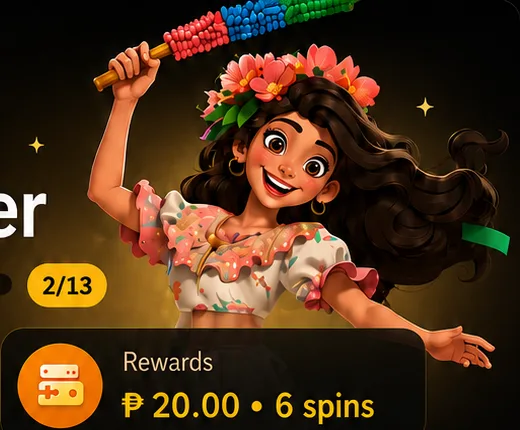
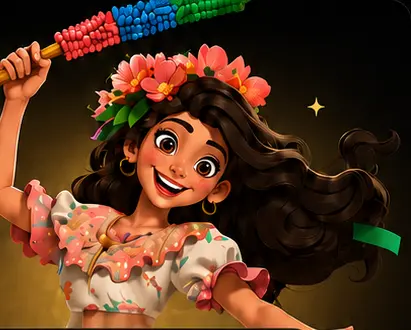
调整任务中心视觉比例

diff --git a/apps/web-tma/src/views/TasksPage.tsx b/apps/web-tma/src/views/TasksPage.tsx
@@ -1,9 +1,7 @@
 import { useState, useEffect, useCallback, useMemo } from 'react'
 import { useTranslation } from 'react-i18next'
 import {
-  Cake, CalendarDays, Check, Download, Gamepad2, Gift, Lock,
-  MailCheck, Server, Smartphone, Sparkles, Star, Trophy, UserPlus, Users,
-  Wallet, type LucideIcon,
+  CalendarDays, Check, Lock, Sparkles, Star, Users, type LucideIcon,
 } from 'lucide-react'
 import {
   fetchTaskCenter, claimTask, claimSocialTask,
@@ -14,6 +12,15 @@ import { useWalletStore, formatCurrencyAmount } from '@/stores/wallet'
 import { ApiError } from '@/api/client'
 import BindModal from '@/components/auth/BindModal'
 import taskHero from '@/assets/tasks/task-hero.webp'
+import iconBirthday from '@/assets/tasks/icon-birthday.webp'
+import iconClaimable from '@/assets/tasks/icon-claimable.webp'
+import iconDownload from '@/assets/tasks/icon-download.webp'
+import iconGame from '@/assets/tasks/icon-game.webp'
+import iconInvite from '@/assets/tasks/icon-invite.webp'
+import iconPhone from '@/assets/tasks/icon-phone.webp'
+import iconProfile from '@/assets/tasks/icon-profile.webp'
+import iconRewards from '@/assets/tasks/icon-rewards.webp'
+import iconWallet from '@/assets/tasks/icon-wallet.webp'
 
 export type TaskPath = 'newbie' | 'daily' | 'social'
 
@@ -165,19 +172,17 @@ export default function TasksPage({ initialPath = 'newbie', onNavigate }: { init
     return t('tasks.claim')
   }
 
-  function taskVisual(card: TaskCard): { Icon: LucideIcon; className: string } {
-    if (card.id === 'profile_complete') return { Icon: MailCheck, className: 'from-[#4aa8ff] to-[#1261d6]' }
-    if (card.id === 'first_game') return { Icon: Gamepad2, className: 'from-[#36d45d] to-[#0b8d33]' }
-    if (card.id === 'invite_milestone') return { Icon: UserPlus, className: 'from-[#ffd528] to-[#e88d00]' }
-    if (card.id === 'agg_trial') return { Icon: Smartphone, className: 'from-[#15d2bd] to-[#058d7f]' }
-    if (card.id === 'agg_appdl') return { Icon: Download, className: 'from-[#ab50ea] to-[#6826a7]' }
-    if (card.id === 'agg_firstdep') return { Icon: Wallet, className: 'from-[#ff602f] to-[#e62b0b]' }
-    if (card.id === 'agg_birthday') return { Icon: Cake, className: 'from-[#2088ff] to-[#064aa3]' }
-    if (card.id === 'daily_login' || card.id === 'agg_checkin') return { Icon: CalendarDays, className: 'from-[#ffb334] to-[#f06a00]' }
-    if (card.id === 'daily_deposit') return { Icon: Wallet, className: 'from-[#ff7d1a] to-[#df3e00]' }
-    if (card.id.startsWith('agg_checkin_ms')) return { Icon: Trophy, className: 'from-[#ffd43b] to-[#d99000]' }
-    if (card.group === 'social') return { Icon: Users, className: 'from-[#5bb6ff] to-[#1855d6]' }
-    return { Icon: Gift, className: 'from-[#ffbe20] to-[#f06a00]' }
+  function taskIcon(card: TaskCard): string {
+    if (card.id === 'profile_complete') return iconProfile
+    if (card.id === 'first_game') return iconGame
+    if (card.id === 'invite_milestone') return iconInvite
+    if (card.id === 'agg_trial') return iconPhone
+    if (card.id === 'agg_appdl') return iconDownload
+    if (card.id === 'agg_firstdep' || card.id === 'daily_deposit') return iconWallet
+    if (card.id === 'agg_birthday') return iconBirthday
+    if (card.id === 'daily_login' || card.id === 'agg_checkin' || card.id.startsWith('agg_checkin_ms')) return iconRewards
+    if (card.group === 'social') return iconInvite
+    return iconClaimable
   }
 
   function renderSummary() {
@@ -189,35 +194,35 @@ export default function TasksPage({ initialPath = 'newbie', onNavigate }: { init
     const progressPct = summary.total > 0 ? Math.min(100, Math.round(summary.done / summary.total * 100)) : 0
 
     return (
-      <section className="relative overflow-hidden px-4 pb-4 pt-9">
+      <section className="relative overflow-hidden px-3 pb-3 pt-7">
         <div className="absolute inset-0 bg-[radial-gradient(circle_at_72%_18%,rgba(255,185,28,0.34),transparent_31%),radial-gradient(circle_at_40%_38%,rgba(255,190,34,0.12),transparent_30%)]" />
         <img
           src={taskHero}
           alt=""
-          className="pointer-events-none absolute right-[-38px] top-0 h-[220px] w-[270px] object-cover object-left-top opacity-95"
+          className="pointer-events-none absolute right-[-18px] top-0 h-[172px] w-[214px] object-cover object-left-top opacity-95"
         />
-        <div className="pointer-events-none absolute right-0 top-0 h-[230px] w-[52%] bg-gradient-to-l from-transparent via-transparent to-[#050403]" />
+        <div className="pointer-events-none absolute right-0 top-0 h-[180px] w-[56%] bg-gradient-to-l from-transparent via-transparent to-[#050403]" />
         <div className="relative">
-          <p className="flex items-center gap-2 text-[13px] font-black uppercase tracking-[0.22em] text-[#ffd21c]">
-            <Sparkles size={15} fill="currentColor" strokeWidth={2.8} />
+          <p className="flex items-center gap-1.5 text-[11px] font-black uppercase tracking-[0.2em] text-[#ffd21c]">
+            <Sparkles size={12} fill="currentColor" strokeWidth={2.8} />
             {t('tasks.tree.todayPath')}
-            <Sparkles size={15} fill="currentColor" strokeWidth={2.8} />
+            <Sparkles size={12} fill="currentColor" strokeWidth={2.8} />
           </p>
-          <h1 className="mt-3 text-[42px] font-black leading-none text-white [text-shadow:0_2px_16px_rgba(255,255,255,0.18)]">
+          <h1 className="mt-2 text-[30px] font-black leading-none text-white [text-shadow:0_2px_16px_rgba(255,255,255,0.18)]">
             {t('tasks.pageTitle')}
           </h1>
-          <div className="mt-8 flex max-w-[255px] items-center gap-4">
-            <div className="h-[18px] flex-1 overflow-hidden rounded-full bg-black/72 shadow-[inset_0_1px_4px_rgba(255,196,31,0.16)]">
+          <div className="mt-7 flex max-w-[202px] items-center gap-3">
+            <div className="h-[11px] flex-1 overflow-hidden rounded-full bg-black/72 shadow-[inset_0_1px_4px_rgba(255,196,31,0.16)]">
               <div className="h-full rounded-full bg-gradient-to-b from-[#ffe15a] to-[#ffc000]" style={{ width: `${progressPct}%` }} />
             </div>
-            <div className="rounded-full bg-[#ffd21d] px-4 py-2 text-[22px] font-black leading-none text-[#211300] shadow-[0_8px_22px_rgba(255,185,20,0.32)]">
+            <div className="rounded-full bg-[#ffd21d] px-3 py-1.5 text-[15px] font-black leading-none text-[#211300] shadow-[0_8px_22px_rgba(255,185,20,0.32)]">
               {summary.done}/{summary.total}
             </div>
           </div>
         </div>
-        <div className="relative mt-6 grid grid-cols-2 gap-3">
-          <SummaryTile tone="purple" Icon={Gift} label={t('tasks.tree.claimable')} value={String(summary.claimable)} />
-          <SummaryTile tone="orange" Icon={Server} label={t('tasks.tree.rewards')} value={rewardParts.length ? rewardParts.join(' · ') : '-'} />
+        <div className="relative mt-5 grid grid-cols-2 gap-2.5">
+          <SummaryTile icon={iconClaimable} label={t('tasks.tree.claimable')} value={String(summary.claimable)} />
+          <SummaryTile icon={iconRewards} label={t('tasks.tree.rewards')} value={rewardParts.length ? rewardParts.join(' · ') : '-'} />
         </div>
       </section>
     )
@@ -226,18 +231,18 @@ export default function TasksPage({ initialPath = 'newbie', onNavigate }: { init
   function renderTabs() {
     const tabIcons = { newbie: Star, daily: CalendarDays, social: Users } satisfies Record<TaskPath, LucideIcon>
     return (
-      <div className="sticky top-0 z-20 bg-[#050403]/94 px-4 py-3 backdrop-blur">
-        <div className="grid grid-cols-3 overflow-hidden rounded-[17px] border border-[#8a5b13]/55 bg-black/38 p-1.5 shadow-[0_0_24px_rgba(255,174,22,0.08)]">
+      <div className="sticky top-0 z-20 bg-[#050403]/94 px-3 py-2.5 backdrop-blur">
+        <div className="grid grid-cols-3 overflow-hidden rounded-[14px] border border-[#8a5b13]/55 bg-black/38 p-1 shadow-[0_0_24px_rgba(255,174,22,0.08)]">
           {PATHS.map((path) => (
             <button
               key={path}
               type="button"
               onClick={() => setActivePath(path)}
-              className={`flex min-w-0 items-center justify-center gap-2 rounded-[13px] px-2 py-3 text-[15px] font-black transition-colors ${activePath === path ? 'bg-gradient-to-b from-[#ffe15a] to-[#ffc000] text-[#1c1300] shadow-[0_5px_16px_rgba(255,193,17,0.34)]' : 'text-[#d8b889]'}`}
+              className={`flex min-w-0 items-center justify-center gap-1.5 rounded-[11px] px-1.5 py-2.5 text-[13px] font-black transition-colors ${activePath === path ? 'bg-gradient-to-b from-[#ffe15a] to-[#ffc000] text-[#1c1300] shadow-[0_5px_16px_rgba(255,193,17,0.34)]' : 'text-[#d8b889]'}`}
             >
               {(() => {
                 const Icon = tabIcons[path]
-                return <Icon size={21} fill={activePath === path ? 'currentColor' : 'none'} strokeWidth={2.7} />
+                return <Icon size={17} fill={activePath === path ? 'currentColor' : 'none'} strokeWidth={2.7} />
               })()}
               {t(`tasks.path.${path}`)}
             </button>
@@ -258,43 +263,41 @@ export default function TasksPage({ initialPath = 'newbie', onNavigate }: { init
     const reward = rewardText(card)
     const buttonLabel = reward || actionLabel(card)
     const progressPct = card.progress ? Math.min(100, Math.round((card.progress.current / Math.max(1, card.progress.target)) * 100)) : 0
-    const visual = taskVisual(card)
+    const icon = taskIcon(card)
     const buttonTone = done ? 'bg-gradient-to-b from-[#27d85d] to-[#09963b] text-white shadow-[0_7px_18px_rgba(12,189,74,0.25)]'
       : 'bg-gradient-to-b from-[#ff961f] to-[#ff6500] text-white shadow-[0_7px_18px_rgba(255,101,0,0.28)]'
 
     return (
       <div key={card.id} className="relative flex gap-3">
-        <div className="flex w-[70px] flex-shrink-0 flex-col items-center">
-          <span className={`z-[1] mt-[13px] flex h-[45px] w-[45px] items-center justify-center rounded-full border ${done ? 'border-[#15b653]/70 bg-[#05a647] text-white shadow-[0_0_18px_rgba(0,189,80,0.42)]' : 'border-[#875714]/80 bg-[#14100a] text-[#d2b083]'}`}>
-            {done ? <Check size={28} strokeWidth={4} /> : <Lock size={20} strokeWidth={2.6} />}
+        <div className="flex w-[43px] flex-shrink-0 flex-col items-center">
+          <span className={`z-[1] mt-[9px] flex h-[31px] w-[31px] items-center justify-center rounded-full border ${done ? 'border-[#15b653]/70 bg-[#05a647] text-white shadow-[0_0_18px_rgba(0,189,80,0.42)]' : 'border-[#875714]/80 bg-[#14100a] text-[#d2b083]'}`}>
+            {done ? <Check size={19} strokeWidth={4} /> : <Lock size={14} strokeWidth={2.6} />}
           </span>
-          {index < total - 1 && <span className="h-full min-h-[48px] w-px bg-gradient-to-b from-[#ffc31e]/72 via-[#7d520d]/70 to-[#7d520d]/30" />}
+          {index < total - 1 && <span className="h-full min-h-[36px] w-px bg-gradient-to-b from-[#ffc31e]/72 via-[#7d520d]/70 to-[#7d520d]/30" />}
         </div>
 
-        <div className="mb-3 min-w-0 flex-1 rounded-[13px] border border-[#7f520f]/55 bg-[#080806]/86 px-3 py-3 shadow-[inset_0_1px_0_rgba(255,206,89,0.06)]">
-          <div className="flex items-center gap-3">
-            <div className={`flex h-[70px] w-[70px] flex-shrink-0 items-center justify-center rounded-[14px] bg-gradient-to-br ${visual.className} shadow-[inset_0_1px_0_rgba(255,255,255,0.3),0_10px_22px_rgba(0,0,0,0.3)]`}>
-              <visual.Icon size={39} className="text-white drop-shadow-[0_2px_2px_rgba(0,0,0,0.32)]" strokeWidth={2.7} />
-            </div>
+        <div className="mb-2.5 min-w-0 flex-1 rounded-[10px] border border-[#7f520f]/55 bg-[#080806]/86 px-2.5 py-2.5 shadow-[inset_0_1px_0_rgba(255,206,89,0.06)]">
+          <div className="flex items-center gap-2.5">
+            <img src={icon} alt="" className="h-[46px] w-[46px] flex-shrink-0 rounded-[9px]" />
             <div className="min-w-0 flex-1">
               <div className="flex min-w-0 items-center gap-2">
-                {isMilestone && <span className="flex-shrink-0 rounded-full border border-[#81550f]/80 bg-black/42 px-2 py-1 text-[10px] font-black uppercase leading-none text-[#ffd21d]">{t('tasks.tree.milestone')}</span>}
-                <p className="truncate text-[21px] font-black leading-tight text-[#fff8ea]">{cardTitle(card)}</p>
+                {isMilestone && <span className="flex-shrink-0 rounded-full border border-[#81550f]/80 bg-black/42 px-1.5 py-0.5 text-[8px] font-black uppercase leading-none text-[#ffd21d]">{t('tasks.tree.milestone')}</span>}
+                <p className="truncate text-[15px] font-black leading-tight text-[#fff8ea]">{cardTitle(card)}</p>
               </div>
-              {cardSubtitle(card) && <p className="mt-1 line-clamp-2 text-[15px] font-medium leading-snug text-[#f0dfc5]">{cardSubtitle(card)}</p>}
+              {cardSubtitle(card) && <p className="mt-0.5 line-clamp-2 text-[12px] font-medium leading-snug text-[#f0dfc5]">{cardSubtitle(card)}</p>}
               {card.progress && (
-                <div className="mt-3 flex items-center gap-3">
-                  <div className="h-[13px] flex-1 overflow-hidden rounded-full bg-[#1c1710] shadow-[inset_0_1px_3px_rgba(0,0,0,0.65)]">
+                <div className="mt-2 flex items-center gap-2">
+                  <div className="h-[8px] flex-1 overflow-hidden rounded-full bg-[#1c1710] shadow-[inset_0_1px_3px_rgba(0,0,0,0.65)]">
                     <div className="h-full rounded-full bg-gradient-to-b from-[#ffe15a] to-[#ffc000]" style={{ width: `${progressPct}%` }} />
                   </div>
-                  <span className="min-w-[42px] text-[17px] font-black text-[#f0dfc5]">{card.progress.current}/{card.progress.target}</span>
+                  <span className="min-w-[30px] text-[12px] font-black text-[#f0dfc5]">{card.progress.current}/{card.progress.target}</span>
                 </div>
               )}
             </div>
             <div className="flex flex-shrink-0 items-center gap-2">
               {card.group === 'social' && kind === 'goto' && card.action.url && !done && (
                 <a href={card.action.url} target="_blank" rel="noreferrer"
-                  className="rounded-full border border-[#ffc31e]/50 px-3 py-2 text-xs font-black text-[#ffd78a] active:scale-95">
+                  className="rounded-full border border-[#ffc31e]/50 px-2.5 py-1.5 text-[11px] font-black text-[#ffd78a] active:scale-95">
                   {t('tasks.go')}
                 </a>
               )}
@@ -302,7 +305,7 @@ export default function TasksPage({ initialPath = 'newbie', onNavigate }: { init
                 type="button"
                 onClick={() => onCardAction(card)}
                 disabled={disabled}
-                className={`min-w-[102px] rounded-full px-5 py-3 text-[16px] font-black leading-none active:scale-95 disabled:cursor-default ${!done && disabled ? 'opacity-95' : ''} ${buttonTone}`}
+                className={`min-w-[76px] rounded-full px-3 py-2 text-[13px] font-black leading-none active:scale-95 disabled:cursor-default ${!done && disabled ? 'opacity-95' : ''} ${buttonTone}`}
               >
                 {buttonLabel}
               </button>
@@ -310,7 +313,7 @@ export default function TasksPage({ initialPath = 'newbie', onNavigate }: { init
           </div>
 
           {showCode && (
-            <div className="mt-3 flex gap-2 pl-[82px]">
+            <div className="mt-2.5 flex gap-2 pl-[56px]">
               <input
                 value={codeInputs[card.id] ?? ''}
                 onChange={(e) => setCodeInputs((s) => ({ ...s, [card.id]: e.target.value }))}
@@ -328,17 +331,17 @@ export default function TasksPage({ initialPath = 'newbie', onNavigate }: { init
     const cards = pathCards[activePath]
     const totalNodes = cards.length
     return (
-      <section className="px-4 pb-10">
-        <div className="mb-4 flex items-start justify-between">
+      <section className="px-3 pb-10">
+        <div className="mb-3 flex items-start justify-between">
           <div>
-            <p className="flex items-center gap-2 text-[24px] font-black uppercase tracking-[0.14em] text-[#ffd21d]">
-              <Sparkles size={18} fill="currentColor" />
+            <p className="flex items-center gap-1.5 text-[18px] font-black uppercase tracking-[0.12em] text-[#ffd21d]">
+              <Sparkles size={14} fill="currentColor" />
               {t(`tasks.path.${activePath}`)}
-              <Sparkles size={18} fill="currentColor" />
+              <Sparkles size={14} fill="currentColor" />
             </p>
-            <p className="mt-1 text-[17px] text-[#f0dfc5]">{t(`tasks.pathSub.${activePath}`)}</p>
+            <p className="mt-0.5 text-[13px] text-[#f0dfc5]">{t(`tasks.pathSub.${activePath}`)}</p>
           </div>
-          <span className="mt-1 rounded-full border border-[#8a5b13]/70 bg-black/38 px-4 py-2 text-[20px] font-black leading-none text-[#f0dfc5]">
+          <span className="mt-1 rounded-full border border-[#8a5b13]/70 bg-black/38 px-3 py-1.5 text-[14px] font-black leading-none text-[#f0dfc5]">
             {cards.filter((card) => card.status === 'done').length}/{cards.length}
           </span>
         </div>
@@ -366,16 +369,13 @@ export default function TasksPage({ initialPath = 'newbie', onNavigate }: { init
   )
 }
 
-function SummaryTile({ tone, Icon, label, value }: { tone: 'purple' | 'orange'; Icon: LucideIcon; label: string; value: string }) {
-  const iconClass = tone === 'purple' ? 'from-[#ab50ea] to-[#6418a7]' : 'from-[#ff9f22] to-[#ff6500]'
+function SummaryTile({ icon, label, value }: { icon: string; label: string; value: string }) {
   return (
-    <div className="flex min-w-0 items-center gap-4 rounded-[18px] border border-[#8a5b13]/55 bg-black/54 px-4 py-4 shadow-[inset_0_1px_0_rgba(255,206,89,0.06)]">
-      <span className={`flex h-[64px] w-[64px] flex-shrink-0 items-center justify-center rounded-full bg-gradient-to-br ${iconClass} shadow-[inset_0_1px_0_rgba(255,255,255,0.28)]`}>
-        <Icon size={34} className="text-white" strokeWidth={2.6} />
-      </span>
+    <div className="flex min-w-0 items-center gap-2.5 rounded-[13px] border border-[#8a5b13]/55 bg-black/54 px-2.5 py-2.5 shadow-[inset_0_1px_0_rgba(255,206,89,0.06)]">
+      <img src={icon} alt="" className="h-[44px] w-[44px] flex-shrink-0 rounded-full" />
       <span className="min-w-0">
-        <span className="block truncate text-[17px] font-medium leading-tight text-[#f0dfc5]">{label}</span>
-        <span className="mt-1 block truncate text-[28px] font-black leading-none text-[#ffd21d]">{value}</span>
+        <span className="block truncate text-[12px] font-medium leading-tight text-[#f0dfc5]">{label}</span>
+        <span className="mt-0.5 block truncate text-[18px] font-black leading-none text-[#ffd21d]">{value}</span>
       </span>
     </div>
   )
